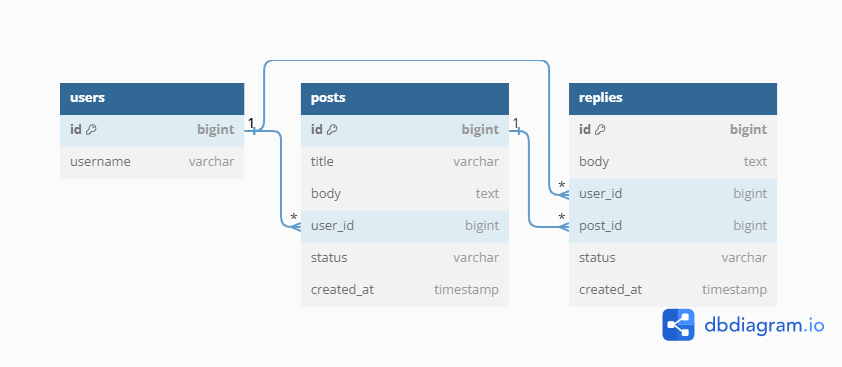
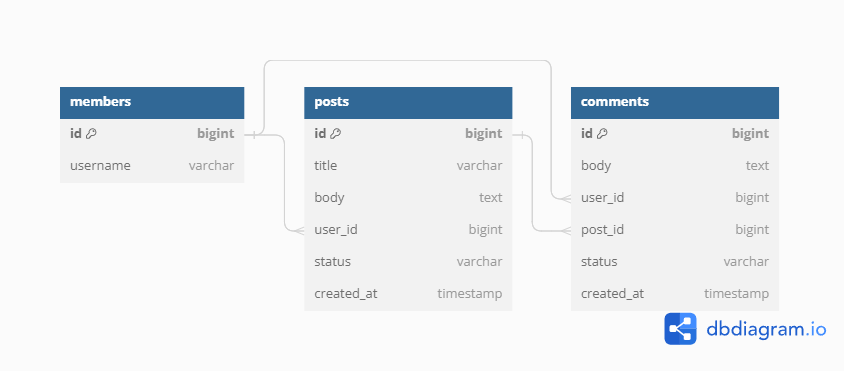
refactor & fix: 엔티티명 변경 및 매핑 수정
- 엔티티명 변경
  - reply -> comment
  - user -> member
- 잘못된 매핑 수정

diff --git a/src/main/java/com/example/board/model/Comment.java b/src/main/java/com/example/board/model/Comment.java
@@ -11,16 +11,16 @@ import lombok.Data;
 
 @Entity
 @Data
-public class Reply {
+public class Comment {
 
     @Id
     @GeneratedValue
-    @Column(name = "reply_id")
+    @Column(name = "comment_id")
     private Long id;
 
     @ManyToOne
-    @JoinColumn(name = "user_id")
-    private User user;
+    @JoinColumn(name = "member_id")
+    private Member member;
 
     @ManyToOne
     @JoinColumn(name = "post_id")
@@ -28,16 +28,16 @@ public class Reply {
 
     private String body;
 
-    private ReplyStatus status = ReplyStatus.ACTIVATED;
+    private CommentStatus status = CommentStatus.ACTIVATED;
     private LocalDateTime createdAt = LocalDateTime.now();
 
-    public Reply(User user, Post post, String body) {
-        this.user = user;
+    public Comment(Member member, Post post, String body) {
+        this.member = member;
         this.post = post;
         this.body = body;
     }
 
-    public Reply() {
+    public Comment() {
 
     }
 

diff --git a/src/main/java/com/example/board/model/Post.java b/src/main/java/com/example/board/model/Post.java
@@ -22,11 +22,11 @@ public class Post {
     private Long id;
 
     @ManyToOne()
-    @JoinColumn(name = "user_id")
-    private User user;
+    @JoinColumn(name = "member_id")
+    private Member member;
 
-    @OneToMany(mappedBy = "reply_id")
-    private List<Reply> replies = new ArrayList<>();
+    @OneToMany(mappedBy = "post")
+    private List<Comment> comments = new ArrayList<>();
 
     private String title;
     private String body;
@@ -34,8 +34,8 @@ public class Post {
     private PostStatus status = PostStatus.ACTIVATED;
     private LocalDateTime createdAt = LocalDateTime.now();
 
-    public Post(User user, String title, String body) {
-        this.user = user;
+    public Post(Member member, String title, String body) {
+        this.member = member;
         this.title = title;
         this.body = body;
     }

diff --git a/src/main/java/com/example/board/model/Member.java b/src/main/java/com/example/board/model/Member.java
@@ -11,26 +11,26 @@ import lombok.Data;
 
 @Entity
 @Data
-public class User {
+public class Member {
 
     @Id
     @GeneratedValue
-    @Column(name = "user_id")
+    @Column(name = "member_id")
     private Long id;
 
-    @Column(name = "username")
+    @Column(name = "member_name")
     private String name;
 
-    @OneToMany(mappedBy = "post")
+    @OneToMany(mappedBy = "member")
     private List<Post> posts = new ArrayList<>();
 
-    @OneToMany(mappedBy = "reply")
-    private List<Reply> replies = new ArrayList<>();
+    @OneToMany(mappedBy = "member")
+    private List<Comment> comments = new ArrayList<>();
 
-    public User(String name) {
+    public Member(String name) {
         this.name = name;
     }
 
-    public User() {}
+    public Member() {}
 
 }

diff --git a/src/main/java/com/example/board/model/CommentStatus.java b/src/main/java/com/example/board/model/CommentStatus.java
@@ -1,5 +1,5 @@
 package com.example.board.model;
 
-public enum ReplyStatus {
+public enum CommentStatus {
     ACTIVATED, DELETED
 }
